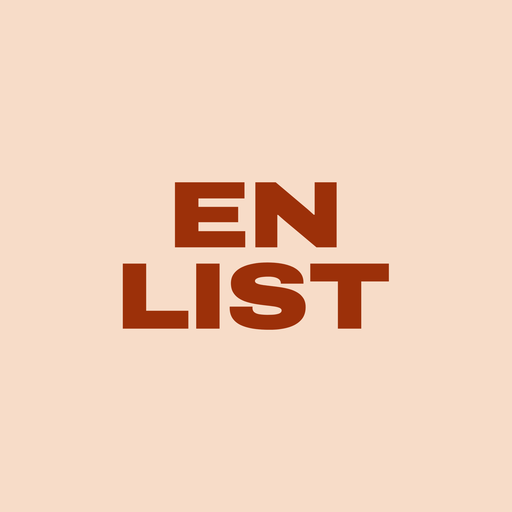
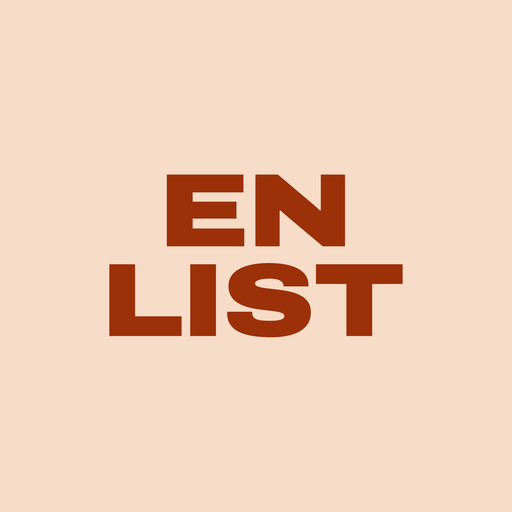
Icona: scritta più grande (circa +10%), allineata alle app gemelle

Changed region(s): [[0.1875, 0.3125, 0.8125, 0.6562]]

diff --git a/sw.js b/sw.js
@@ -1,6 +1,6 @@
 /* Enlist · service worker: tiene una copia dell'app sul telefono, così si apre anche senza rete.
    I dati non passano da qui: li gestisce store.js. Quando cambia l'app, alzare VERSION. */
-const VERSION="ascolta-v16";
+const VERSION="ascolta-v17";
 const CORE=["./","index.html","store.js","cerca.js","manifest.webmanifest","icons/apple-touch-icon.png","icons/icon-192.png","icons/icon-512.png","icons/icon-maskable-512.png"];
 
 self.addEventListener("install",e=>{e.waitUntil(caches.open(VERSION).then(c=>c.addAll(CORE)).then(()=>self.skipWaiting()));});
